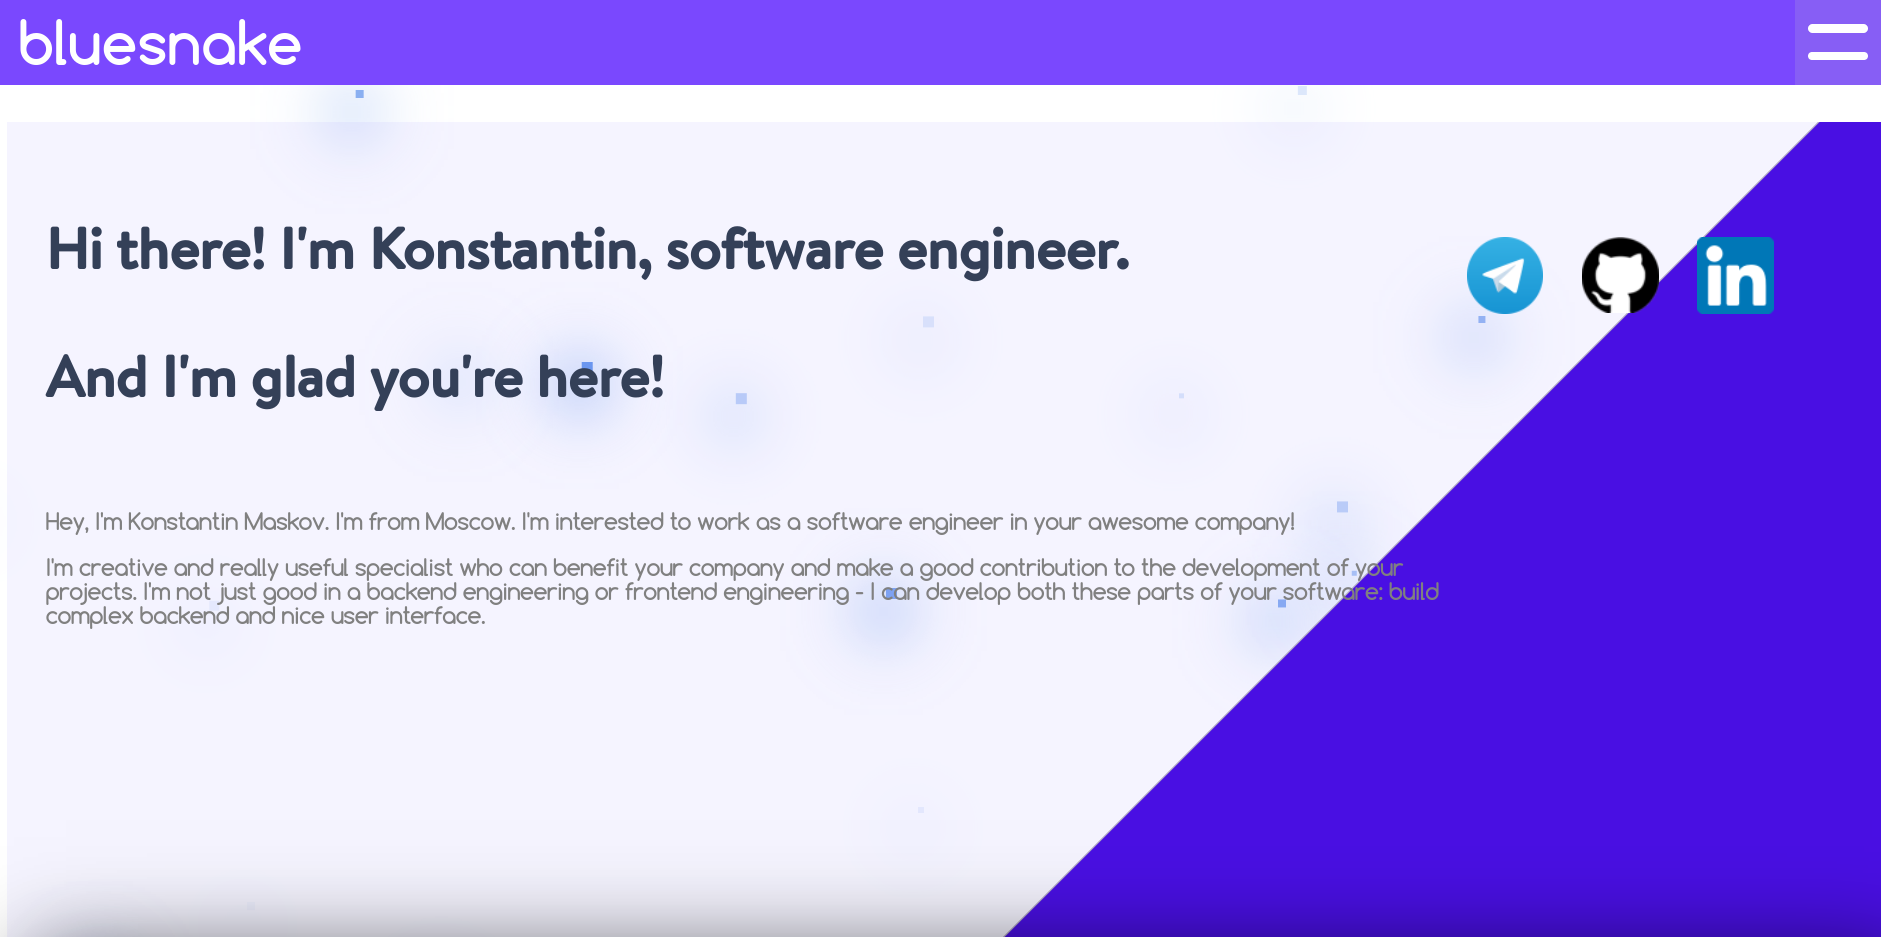
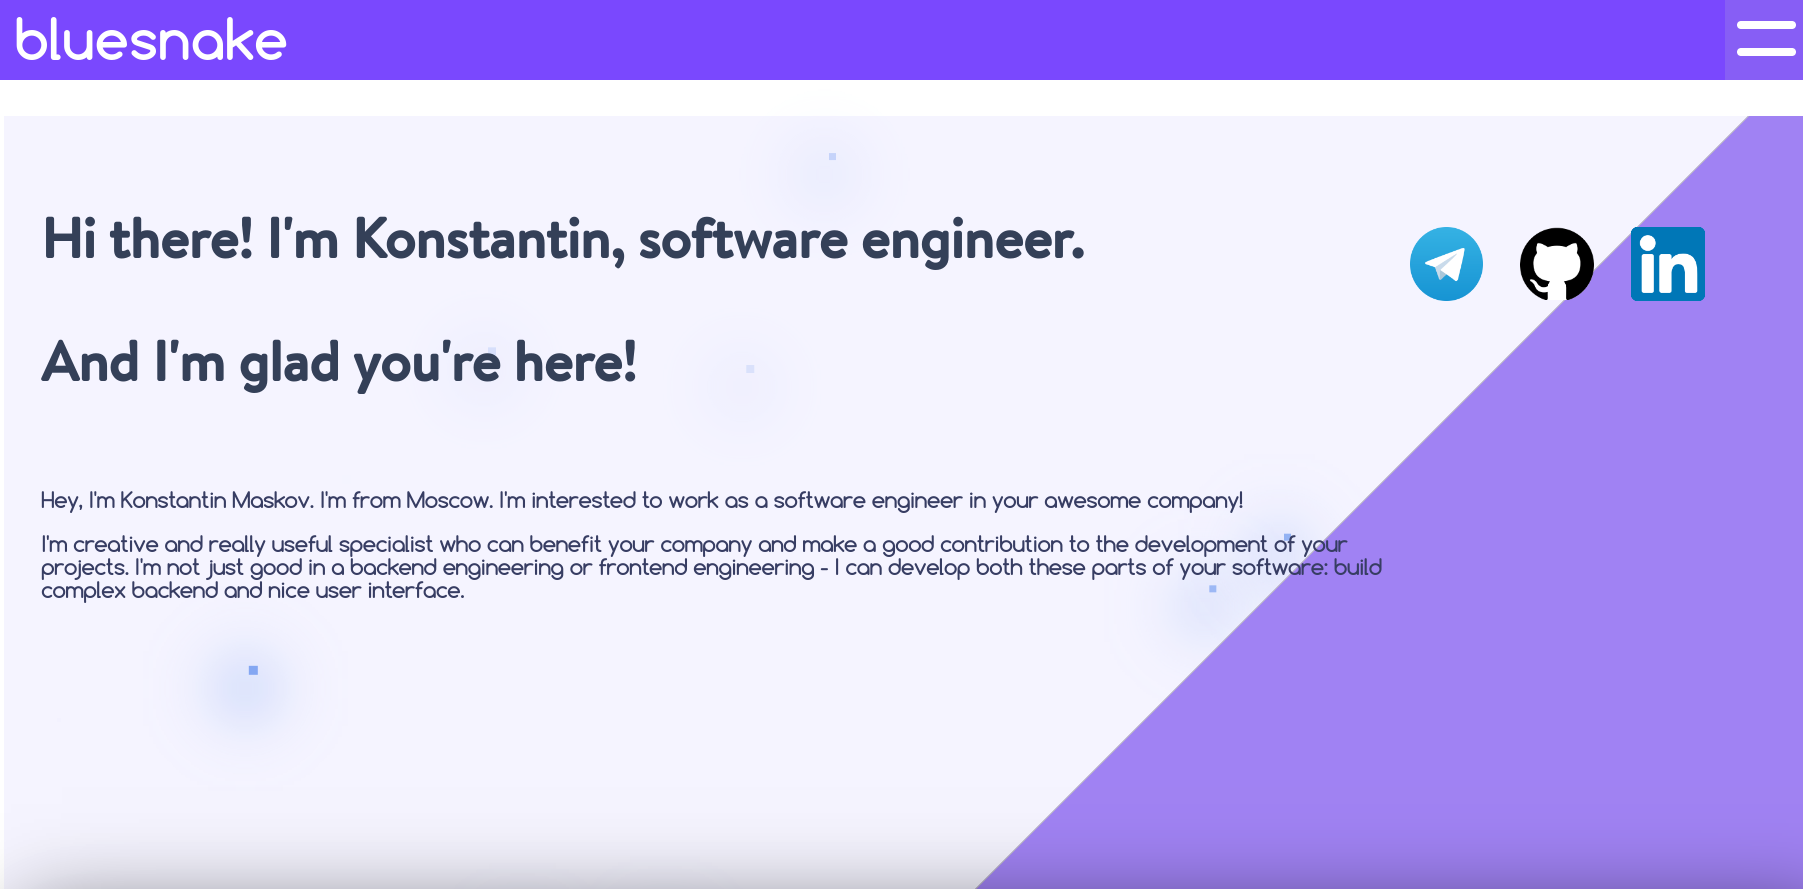
Polish css styles. Change images.

diff --git a/bluesnake/static/css/skills.css b/bluesnake/static/css/skills.css
@@ -104,7 +104,7 @@
     height:200vw;
     top:0;left:-100%;
 
-    background-color:rgba(122, 72, 254, 1.0);
+    background-color:rgba(122, 72, 254, 0.4);
     transform: rotate(45deg);
     z-index:-1;
 }

diff --git a/bluesnake/static/css/slideshow.css b/bluesnake/static/css/slideshow.css
@@ -3,7 +3,7 @@
     display:flex;
     flex-direction:column;
     justify-content:center;
-    width:95vw;
+    width:90%;
     padding:2vw;
     align-items:center;
     margin-left:auto;

diff --git a/bluesnake/portfolio/admin.py b/bluesnake/portfolio/admin.py
@@ -58,11 +58,11 @@ class SkillAdmin(admin.ModelAdmin):
     ]
     def get_icon(self, obj):
         html = """
-            <img src="/static/images/icons/skill-default.png" style="width:6em;height:6em;border-radius:50%;">
+            <img src="/static/images/icons/skill-default.png" style="width:6em;height:6em;">
         """
         if obj.icon and obj.icon.url:
                 html = f"""
-                <img src="{obj.icon.url}" style="width:6em;height:6em;border-radius:50%;">
+                <img src="{obj.icon.url}" style="width:6em;height:6em;">
             """
             
         return mark_safe(html)

diff --git a/bluesnake/bluesnake/settings.py b/bluesnake/bluesnake/settings.py
@@ -6,11 +6,10 @@ BASE_DIR = Path(__file__).resolve().parent.parent
  
 SECRET_KEY = config('SECRET_KEY') 
   
-DEBUG = True
+DEBUG = False
 
 ALLOWED_HOSTS = [
-    'bluesnakeengineer.ru',
-    '127.0.0.1',
+    'bluesnakeengineer.ru' 
 ]
 
 
